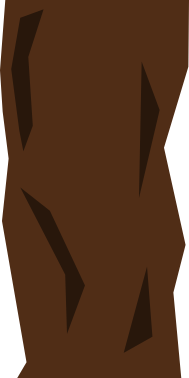
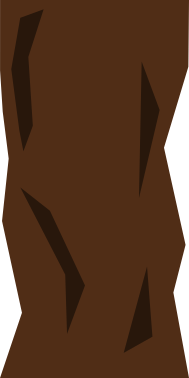
added basic score and blame functionality

Changed region(s): [[0.0, 0.582, 0.1587, 1.0], [0.8995, 0.7857, 1.0, 1.0], [0.0, 0.0, 0.0265, 0.1746]]

diff --git a/main.js b/main.js
@@ -1,4 +1,4 @@
-import { Vec2, Rect, Queue } from "./class.js";
+import { Vec2, Rect, Queue, Button } from "./class.js";
 
 /*
 Gregg: Explain the main concept and mechanics of the game.
@@ -31,8 +31,15 @@ trees_img.branch.src = "./branch.png";
 
 // Game properties
 let log_queue = new Queue();
+let gameStarted = false;
+let score = 0;
+let control_enabled = false;
+let failed_status = "";
 
 // Times ( for delays )
+let time_elapsed = 0;
+let start_delay = 3;
+let job_delay = 0.6;
 
 // Controls properties
 let screenWidth = 500, screenHeight = 500;
@@ -50,11 +57,52 @@ let log_size = 7;
 let player_rect = new Rect(0, 0, 120, 100);
 let isPlayerRight = false;
 
+// Menu state
+const playBtnRect = new Rect(20, 500, 320, 80);
+const playBtn = new Button(playBtnRect, "PLAY");
+
+// Functions
+const defeat = () => {
+    gameStarted = false;
+}
+const start = () => {
+    score = 0;
+    start_delay = 3;
+    job_delay = 0.6;
+
+    log_queue.list = [];
+    for (let i = 0; i < log_size; i++) {
+        if (i > 0) log_queue.enqueue(Math.floor(Math.random() * 2));
+        else log_queue.enqueue(1);
+    }
+
+    isPlayerRight = false;
+    gameStarted = true;
+}
+
 // Main update method
 const update = (dt) => {
+    time_elapsed += dt;
+
+    if (!gameStarted) {
+        playBtnRect.x = (screenWidth - playBtnRect.width) / 2;
+    }
+
     if (pointer_down && !initial_down) {
         // Put one touched events here
+        initial_down = true;
         
+        // Handle button clicks
+        if (!gameStarted) {
+
+            if (playBtnRect.collidePoint(mouseX, mouseY)) {
+                start();
+                return;
+            }
+        }
+        
+        // Gameplay controls
+        if (!control_enabled) return;        
         let screenCenterX = screenWidth / 2;
 
         player_img.state = player_img.swing;
@@ -67,10 +115,34 @@ const update = (dt) => {
         log_queue.dequeue();
         
         // Detect if player got hit
-        if (log_queue.peak() == 1 && isPlayerRight) console.log("Supposed defeat.");
-        else if (log_queue.peak() == 0 && !isPlayerRight) console.log("Supposed defeat.");
+        if (log_queue.peak() == 1 && isPlayerRight) {
+            defeat();
+            failed_status = "You got hit by trunk! tough luck."
+        }
+        else if (log_queue.peak() == 0 && !isPlayerRight) {
+            defeat();
+            failed_status = "You got hit by trunk! tough luck."
+        }
+        else if (job_delay <= 0){
+            defeat();
+            failed_status = "Too slow. You're fired!"
+        }
+        else {
+            score++;
+            job_delay = 2;
+        }
+    }
 
-        initial_down = true;
+    // Start delay
+    if (gameStarted && start_delay >= 0) {
+        start_delay -= dt;
+        control_enabled = false;
+    }
+    else if (start_delay <= 0) control_enabled = true;
+
+    // Job delay
+    if (gameStarted && job_delay >= 0 && start_delay <= 0) {
+        job_delay -= dt;
     }
 
     if (!pointer_down) {
@@ -84,53 +156,79 @@ const draw = (dt) => {
     ctx.fillStyle = "white";
     ctx.fillRect(0, 0, screenWidth, screenHeight);
 
-    ctx.fillStyle = "red";
-    // Calculate the center of logs in screen
-    let logCenterX = (screenWidth-log_rect.width) / 2;
+    if (gameStarted) {
+        // Calculate the center of logs in screen
+        let logCenterX = (screenWidth-log_rect.width) / 2;
 
-    // Load the logs and their rects
-    for (let i = 0; i < log_size; i++) {
-        // ( Optional ) to show the order of the logs for debugging.
-        //if (log_queue.list[i] == 1) ctx.fillStyle = "red";
-        //else ctx.fillStyle = "blue";
+        // Load the logs and their rects
+        for (let i = 0; i < log_size; i++) {
+            // ( Optional ) to show the order of the logs for debugging.
+            //if (log_queue.list[i] == 1) ctx.fillStyle = "red";
+            //else ctx.fillStyle = "blue";
 
-        let logBottomY = (screenHeight - (log_rect.height * i)) - log_rect.height;
-        //ctx.fillRect(logCenterX, logBottomY, log_rect.width, log_rect.height);
+            let logBottomY = (screenHeight - (log_rect.height * i)) - log_rect.height;
+            //ctx.fillRect(logCenterX, logBottomY, log_rect.width, log_rect.height);
 
-        if (log_queue.list[i] == 1){
-            ctx.drawImage(trees_img.branch, logCenterX+20, logBottomY, 143.6, 79.2);
-            ctx.drawImage(trees_img.treeType1, logCenterX, logBottomY, log_rect.width, log_rect.height);
+            if (log_queue.list[i] == 1){
+                ctx.drawImage(trees_img.branch, logCenterX+20, logBottomY, 143.6, 79.2); ctx.drawImage(trees_img.treeType1, logCenterX, logBottomY, log_rect.width, log_rect.height);
+            }
+            else {
+                ctx.save();
+                ctx.scale(-1, 1);
+                ctx.drawImage(trees_img.branch, -((logCenterX-log_rect.width) - 60) - 143.6, logBottomY, 143.6, 79.2);
+                ctx.restore();
+
+                ctx.drawImage(trees_img.treeType2, logCenterX, logBottomY, log_rect.width, log_rect.height);
+            }
+        }
+
+        // Calculate the center of X and add a lil bit of offset from the center.
+        let playerCenterX = (screenWidth-player_rect.width) / 2;
+
+        // Player at the bottom
+        player_rect.y = screenHeight - player_rect.height;
+
+        // Draw player stuffs
+        // Set the offset depending on the 'isPlayerRight' variable.
+        if (isPlayerRight) {
+            player_rect.x = playerCenterX + 50;
+
+            ctx.drawImage(player_img.state, player_rect.x, player_rect.y, player_rect.width, player_rect.height);
         }
         else {
-            ctx.save();
+            player_rect.x = playerCenterX - 50;
+            ctx.save()
             ctx.scale(-1, 1);
-            ctx.drawImage(trees_img.branch, -((logCenterX-log_rect.width) - 60) - 143.6, logBottomY, 143.6, 79.2);
+
+            ctx.drawImage(player_img.state, -player_rect.x - player_rect.width, player_rect.y, player_rect.width, player_rect.height);
             ctx.restore();
-
-            ctx.drawImage(trees_img.treeType2, logCenterX, logBottomY, log_rect.width, log_rect.height);
         }
-    }
-
-    // Calculate the center of X and add a lil bit of offset from the center.
-    let playerCenterX = (screenWidth-player_rect.width) / 2;
-
-    // Player at the bottom
-    player_rect.y = screenHeight - player_rect.height;
-
-    // Draw player stuffs
-    // Set the offset depending on the 'isPlayerRight' variable.
-    if (isPlayerRight) {
-        player_rect.x = playerCenterX + 50;
-
-        ctx.drawImage(player_img.state, player_rect.x, player_rect.y, player_rect.width, player_rect.height);
-    }
+    } 
+    // Game Menu
     else {
-        player_rect.x = playerCenterX - 50;
-        ctx.save();
-        ctx.scale(-1, 1);
+        // Render play button
+        playBtn.display(ctx);
 
-        ctx.drawImage(player_img.state, -player_rect.x - player_rect.width, player_rect.y, player_rect.width, player_rect.height);
-        ctx.restore();
+        // Score display
+        ctx.fillStyle = "black";
+        ctx.font = "bold 50px Arial";
+        ctx.textAlign = "center";
+
+        ctx.fillText(`Score: ${score}`, screenWidth/2, 400);
+
+        ctx.fillStyle = "red";
+        ctx.font = "bold 50px Arial";
+        ctx.textAlign = "center";
+
+        ctx.fillText(failed_status, screenWidth/2, 700);
+    }
+
+    if (start_delay >= 0 && gameStarted) {
+        ctx.fillStyle = "red";
+        ctx.font = "bold 120px Arial";
+        ctx.strokeStyle = "black";
+        ctx.textAlign = "center";
+        ctx.fillText(`${Math.trunc(start_delay) + 1}`, screenWidth/2, screenHeight/2);
     }
 }
 

diff --git a/class.js b/class.js
@@ -54,3 +54,25 @@ export class Queue {
         return this.list[0];
     }
 }
+
+export class Button {
+    constructor (rect_base, text) {
+        this.rect = rect_base;
+        this.text = text;
+    }
+
+    display (ctx) {
+        ctx.fillStyle = "#c9c9c9";
+        ctx.strokeStyle = "black";
+        ctx.lineWidth = 6;
+        ctx.fillRect(this.rect.x, this.rect.y, this.rect.width, this.rect.height);
+        ctx.strokeRect(this.rect.x, this.rect.y, this.rect.width, this.rect.height);
+
+        ctx.fillStyle = "black";
+        ctx.font = "bold 36px Arial";
+        ctx.strokeStyle = "black";
+        ctx.textAlign = "center";
+
+        ctx.fillText(this.text, this.rect.x + 70, this.rect.y + (this.rect.height - 30));
+    }
+} 